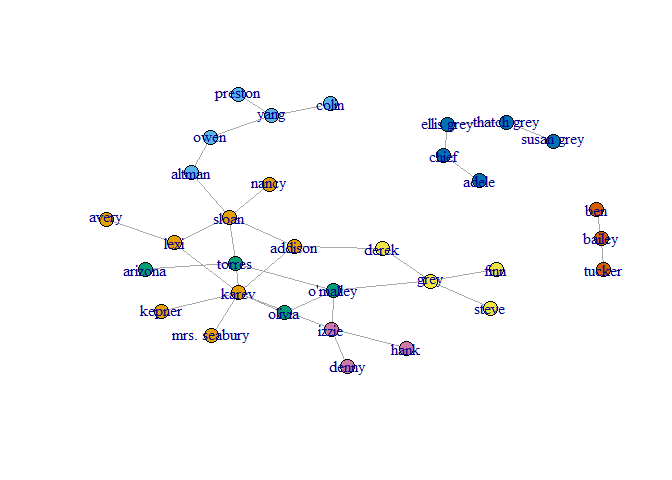
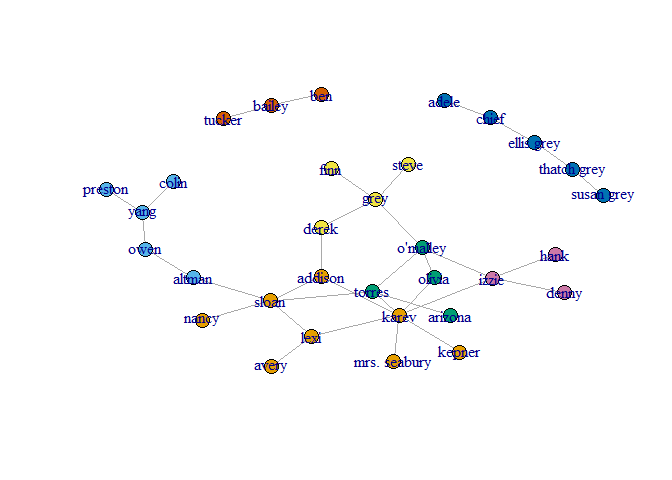
Add files via upload

diff --git a/README.md b/README.md
@@ -386,7 +386,26 @@ bet[which.max(bet)]
 ```
 
     ##   Prince 
-    ## 14441.43
+    ## 13043.37
+
+The most common words in this tweets will be
+
+``` r
+head(sort(bet,decreasing = TRUE),30)
+```
+
+    ##         Prince          Harry          Obama         invite      President 
+    ##    13043.36532     4031.18468     2268.83694      726.27870      689.91013 
+    ##              <U+0085>         Meghan          Royal         Barack            can 
+    ##      671.86950      509.52196      509.43845      413.95413      370.04385 
+    ##           will             If        wedding         really           next 
+    ##      256.51752      250.94362      114.00593       79.33376       73.68265 
+    ##   @BarackObama           like          Trump           just           It<U+0092>s 
+    ##       72.13317       67.50000       61.03340       47.52100       36.74710 
+    ##         Obamas         Harry: @RaheemKassam:           amid          great 
+    ##       36.14353       31.20894       31.02017       30.67619       30.64324 
+    ##        Trump<U+0092>s     government         Obama:        whether        Obama<U+0092>s 
+    ##       28.90162       18.71905       17.50363       13.17756       12.68182
 
 #### ii. By Closeness
 
@@ -398,7 +417,7 @@ clo[which.max(clo)]
 ```
 
     ##      Prince 
-    ## 0.003546099
+    ## 0.004081633
 
 #### iii. By Eigenvector
 
@@ -428,7 +447,7 @@ plot(g, vertex.size=6, vertex.label=NA,
      vertex.color=memb, asp=FALSE)
 ```
 
-![](Report_files/figure-markdown_github/unnamed-chunk-34-1.png)
+![](Report_files/figure-markdown_github/unnamed-chunk-35-1.png)
 
 The number of communities
 
@@ -436,7 +455,7 @@ The number of communities
 length(unique(memb))
 ```
 
-    ## [1] 21
+    ## [1] 20
 
 And the size of each community:
 
@@ -447,27 +466,26 @@ a
 ```
 
     ##    comm ID Size
-    ## 1        1   12
-    ## 2        2   28
-    ## 3        3    8
-    ## 4        4   21
-    ## 5        5   21
-    ## 6        6   15
-    ## 7        7   13
-    ## 8        8    4
-    ## 9        9    8
-    ## 10      10    9
-    ## 11      11    3
-    ## 12      12   11
-    ## 13      13    9
-    ## 14      14   13
-    ## 15      15   11
-    ## 16      16    9
-    ## 17      17    7
-    ## 18      18   14
-    ## 19      19    5
-    ## 20      20   12
-    ## 21      21    3
+    ## 1        1   31
+    ## 2        2    4
+    ## 3        3    7
+    ## 4        4   11
+    ## 5        5    4
+    ## 6        6   12
+    ## 7        7   14
+    ## 8        8   11
+    ## 9        9   12
+    ## 10      10    7
+    ## 11      11   21
+    ## 12      12   13
+    ## 13      13   12
+    ## 14      14   11
+    ## 15      15    9
+    ## 16      16    8
+    ## 17      17    8
+    ## 18      18    6
+    ## 19      19   11
+    ## 20      20    9
 
 The modularity for each phase of this algorithm.
 
@@ -475,54 +493,51 @@ The modularity for each phase of this algorithm.
 gc$modularity
 ```
 
-    ##   [1] -0.0104827878 -0.0079375787 -0.0064584158 -0.0051023898 -0.0034712061
-    ##   [6] -0.0020684337  0.0003821424  0.0024119058  0.0031913927  0.0047734547
-    ##  [11]  0.0073030817  0.0106300580  0.0147543837  0.0196760588  0.0253950832
-    ##  [16]  0.0319114570  0.0392251801  0.0399537401  0.0407545099  0.0423811330
-    ##  [21]  0.0448336094  0.0481119390  0.0522161220  0.0571461582  0.0629020476
-    ##  [26]  0.0643698090  0.0666546824  0.0697566678  0.0736757654  0.0784119750
-    ##  [31]  0.0839652967  0.0903357304  0.0975232763  0.1055279342  0.1143497042
-    ##  [36]  0.1163738618  0.1191953688  0.1228142252  0.1272304309  0.1324439860
-    ##  [41]  0.1384548905  0.1452631443  0.1528687475  0.1588967543  0.1680554405
-    ##  [46]  0.1763688908  0.1767807723  0.1776170770  0.1788778049  0.1805629560
-    ##  [51]  0.1826725304  0.1852065279  0.1881649487  0.1885962129  0.1894587412
-    ##  [56]  0.1898786037  0.1907183289  0.1919779167  0.1936573670  0.1957566800
-    ##  [61]  0.1982758555  0.2012148936  0.2045737943  0.2083525576  0.2125511835
-    ##  [66]  0.2171696720  0.2175919099  0.2184363857  0.2197030995  0.2213464449
-    ##  [71]  0.2234462329  0.2259682588  0.2289125226  0.2293407464  0.2301971938
-    ##  [76]  0.2314639076  0.2331708167  0.2335972352  0.2344500722  0.2357293276
-    ##  [81]  0.2361537508  0.2370025973  0.2382758669  0.2399735598  0.2420956758
-    ##  [86]  0.2446422151  0.2476131776  0.2487755671  0.2503464175  0.2523257290
-    ##  [91]  0.2547135015  0.2575097350  0.2607144296  0.2641998877  0.2682554239
-    ##  [96]  0.2731153405  0.2735417590  0.2743945960  0.2756738514  0.2773795254
-    ## [101]  0.2795116178  0.2820701287  0.2824983525  0.2833547999  0.2846394711
-    ## [106]  0.2863523661  0.2884934848  0.2910217815  0.2940125068  0.2944389252
-    ## [111]  0.2952917622  0.2965710177  0.2982766916  0.3004087841  0.3029672950
-    ## [116]  0.3059522244  0.3093635723  0.3097879955  0.3106368419  0.3119101116
-    ## [121]  0.3136078044  0.3157299205  0.3182764598  0.3212474223  0.3246428080
-    ## [126]  0.3284626169  0.3327068491  0.3334669533  0.3346443548  0.3362390535
-    ## [131]  0.3382510495  0.3406803427  0.3435269332  0.3467908208  0.3504720057
-    ## [136]  0.3545704879  0.3590862673  0.3640193439  0.3644366411  0.3652712356
-    ## [141]  0.3665231273  0.3681763541  0.3702588497  0.3727586426  0.3756757327
-    ## [146]  0.3790101200  0.3826147244  0.3867677441  0.3871850413  0.3880196358
-    ## [151]  0.3892715275  0.3909407164  0.3930272026  0.3955309860  0.3984520667
-    ## [156]  0.4017904446  0.4055461197  0.4097190921  0.4143093617  0.4193169285
-    ## [161]  0.4197519932  0.4206221225  0.4210519615  0.4219116394  0.4232011563
-    ## [166]  0.4236255795  0.4244744259  0.4257476956  0.4274453884  0.4295675045
-    ## [171]  0.4321140438  0.4325256402  0.4333488331  0.4345836225  0.4362300083
-    ## [176]  0.4382879906  0.4407575693  0.4436387445  0.4469315161  0.4506358842
-    ## [181]  0.4547518488  0.4592794098  0.4642185672  0.4692926432  0.4750337106
-    ## [186]  0.4754601291  0.4763129661  0.4775922215  0.4792978955  0.4814299879
-    ## [191]  0.4839884989  0.4869734283  0.4873932909  0.4882330160  0.4894926038
-    ## [196]  0.4911720542  0.4932713671  0.4957905426  0.4987295807  0.5020884815
-    ## [201]  0.5058672448  0.5100658706  0.5141001240  0.5174069575  0.5214026356
-    ## [206]  0.5258156109  0.5274081243  0.5318182492  0.5380175645  0.5394355390
-    ## [211]  0.5412757514  0.5435382017  0.5462228899  0.5493298161  0.5522835812
-    ## [216]  0.5568613091  0.5541101117  0.5483937477  0.5378447358  0.5323256188
-    ## [221]  0.5331659140  0.5373806921  0.5275810480  0.5275339216  0.5223570415
-    ## [226]  0.5217983649  0.5169891852  0.5169146950  0.5172923718  0.5078611882
-    ## [231]  0.5012142665  0.2813658921  0.2477948425  0.1700844438  0.0026078227
-    ## [236]  0.0000000000
+    ##   [1] -0.012513227 -0.010835554 -0.008400008 -0.006820939 -0.006541180
+    ##   [6] -0.005426729 -0.001604999  0.001236779  0.003004942  0.007191099
+    ##  [11]  0.012148094  0.017875926  0.023885104  0.031142262  0.039170258
+    ##  [16]  0.047969091  0.048693360  0.050167300  0.052390909  0.055364189
+    ##  [21]  0.059087138  0.063559758  0.064371165  0.065182573  0.066805388
+    ##  [26]  0.067466509  0.068907992  0.071129837  0.074132045  0.077914616
+    ##  [31]  0.082477548  0.087511274  0.093600535  0.100470158  0.101250520
+    ##  [36]  0.102811245  0.105056022  0.108145368  0.112015076  0.116665147
+    ##  [41]  0.122095580  0.128306375  0.129841876  0.132188784  0.135347100
+    ##  [46]  0.139316823  0.146045508  0.153349411  0.158001157  0.160340834
+    ##  [51]  0.160743539  0.161548949  0.162757064  0.164367884  0.166294977
+    ##  [56]  0.168693921  0.171495571  0.174699925  0.178306984  0.182316748
+    ##  [61]  0.186729218  0.191544393  0.191949479  0.192759652  0.193902678
+    ##  [66]  0.195498946  0.197500300  0.199906741  0.202718268  0.205934882
+    ##  [71]  0.209556582  0.213583368  0.218015241  0.218417946  0.219223356
+    ##  [76]  0.220431471  0.222042292  0.224055817  0.226472048  0.229290983
+    ##  [81]  0.232394088  0.236003617  0.236403764  0.237204059  0.238404501
+    ##  [86]  0.240005091  0.242005828  0.244406712  0.247207744  0.250408923
+    ##  [91]  0.250816214  0.251630797  0.252852671  0.254481836  0.256518293
+    ##  [96]  0.258962040  0.261731586  0.264342731  0.267351289  0.270757260
+    ## [101]  0.274560645  0.278761443  0.283359654  0.288355279  0.288768126
+    ## [106]  0.289593822  0.290832365  0.292483756  0.294547994  0.295765105
+    ## [111]  0.297395064  0.299437871  0.301893525  0.302296230  0.303101641
+    ## [116]  0.304309756  0.305920576  0.307934102  0.310142894  0.312927257
+    ## [121]  0.316114325  0.319704097  0.323696575  0.328091758  0.328896816
+    ## [126]  0.330111193  0.331734890  0.333767907  0.336210243  0.336617535
+    ## [131]  0.337432117  0.338653991  0.340283157  0.342319613  0.344763361
+    ## [136]  0.347614400  0.348011813  0.348806640  0.349998880  0.351588533
+    ## [141]  0.353413318  0.355765342  0.358514778  0.361661629  0.365205892
+    ## [146]  0.369147569  0.369560416  0.370386112  0.371624655  0.373276046
+    ## [151]  0.375340284  0.377817370  0.378220075  0.379025485  0.380233601
+    ## [156]  0.381844421  0.383857947  0.386274177  0.389093113  0.392314753
+    ## [161]  0.395939099  0.399966150  0.400373442  0.401188024  0.402409898
+    ## [166]  0.404039063  0.406075520  0.408519268  0.411370307  0.414628637
+    ## [171]  0.418208532  0.422271920  0.422689707  0.423525280  0.424778640
+    ## [176]  0.425191488  0.426017183  0.427255726  0.432266168  0.436412196
+    ## [181]  0.440223342  0.444424757  0.448611267  0.451388045  0.454969527
+    ## [186]  0.459355714  0.464546606  0.470542202  0.472995299  0.475845809
+    ## [191]  0.479093732  0.482739068  0.486529312  0.490616689  0.495431687
+    ## [196]  0.496620223  0.498221606  0.500235837  0.502662916  0.503897138
+    ## [201]  0.504680940  0.505880412  0.500171983  0.496937378  0.498796559
+    ## [206]  0.460273222  0.443619700  0.411372776  0.333118340  0.299777427
+    ## [211]  0.285595523  0.278682331  0.266559902  0.251803574  0.248065102
+    ## [216]  0.214130803  0.187174963  0.139781618  0.124620116  0.120255802
+    ## [221]  0.000000000
 
 The best modularity score
 
@@ -530,7 +545,7 @@ The best modularity score
 max(gc$modularity)
 ```
 
-    ## [1] 0.5568613
+    ## [1] 0.5058804
 
 The phash (partition) with the best score
 
@@ -538,7 +553,7 @@ The phash (partition) with the best score
 which.max(gc$modularity)
 ```
 
-    ## [1] 216
+    ## [1] 202
 
 #### Fastgreedy algorithm community detection
 
@@ -561,7 +576,7 @@ plot(g,  vertex.size=6, vertex.label=NA,
      vertex.color=membership(gc2), asp=FALSE)
 ```
 
-![](Report_files/figure-markdown_github/unnamed-chunk-42-1.png)
+![](Report_files/figure-markdown_github/unnamed-chunk-43-1.png)
 
 The number of Communities
 
@@ -570,7 +585,7 @@ memb <- membership(gc2)
 length(unique(memb))
 ```
 
-    ## [1] 9
+    ## [1] 10
 
 And the size of each community:
 
@@ -580,16 +595,17 @@ colnames(a) <- c("comm ID","Size")
 a
 ```
 
-    ##   comm ID Size
-    ## 1       1   26
-    ## 2       2   38
-    ## 3       3   24
-    ## 4       4   13
-    ## 5       5   12
-    ## 6       6   11
-    ## 7       7   28
-    ## 8       8   31
-    ## 9       9   53
+    ##    comm ID Size
+    ## 1        1   31
+    ## 2        2   26
+    ## 3        3    9
+    ## 4        4   23
+    ## 5        5   11
+    ## 6        6   21
+    ## 7        7   25
+    ## 8        8   28
+    ## 9        9   11
+    ## 10      10   36
 
 The modularity for each phase of this algorithm.
 
@@ -597,54 +613,51 @@ The modularity for each phase of this algorithm.
 gc2$modularity
 ```
 
-    ##   [1] -8.685779e-03 -8.151166e-03 -7.081939e-03 -5.496192e-03 -4.967323e-03
-    ##   [6] -3.909584e-03 -2.344085e-03 -3.110321e-04  1.934688e-03  3.068534e-03
-    ##  [11]  4.334489e-03  6.094850e-03  8.349617e-03  1.109879e-02  1.434237e-02
-    ##  [16]  1.808035e-02  2.210424e-02  2.658807e-02  3.136642e-02  3.639506e-02
-    ##  [21]  4.142413e-02  4.671541e-02  5.211640e-02  5.486873e-02  5.694802e-02
-    ##  [26]  5.896528e-02  6.131511e-02  6.416408e-02  6.751220e-02  7.135946e-02
-    ##  [31]  7.570587e-02  8.055142e-02  8.589612e-02  9.087550e-02  9.636265e-02
-    ##  [36]  1.020293e-01  1.035931e-01  1.056784e-01  1.082853e-01  1.114137e-01
-    ##  [41]  1.126854e-01  1.144723e-01  1.167745e-01  1.195918e-01  1.229244e-01
-    ##  [46]  1.260488e-01  1.291233e-01  1.326319e-01  1.334873e-01  1.340703e-01
-    ##  [51]  1.351719e-01  1.367919e-01  1.389305e-01  1.415877e-01  1.447633e-01
-    ##  [56]  1.484575e-01  1.489842e-01  1.500377e-01  1.516178e-01  1.536925e-01
-    ##  [61]  1.562640e-01  1.582310e-01  1.590431e-01  1.603794e-01  1.622400e-01
-    ##  [66]  1.646249e-01  1.675340e-01  1.709674e-01  1.749251e-01  1.755799e-01
-    ##  [71]  1.767532e-01  1.784451e-01  1.806555e-01  1.833844e-01  1.866319e-01
-    ##  [76]  1.903979e-01  1.924461e-01  1.929704e-01  1.940190e-01  1.955918e-01
-    ##  [81]  1.975855e-01  1.981070e-01  1.991501e-01  2.007148e-01  2.028010e-01
-    ##  [86]  2.054087e-01  2.085380e-01  2.121888e-01  2.158901e-01  2.164117e-01
-    ##  [91]  2.174548e-01  2.190194e-01  2.211056e-01  2.237133e-01  2.268426e-01
-    ##  [96]  2.304934e-01  2.346658e-01  2.374754e-01  2.379970e-01  2.390401e-01
-    ## [101]  2.406047e-01  2.426909e-01  2.452986e-01  2.484279e-01  2.519681e-01
-    ## [106]  2.556412e-01  2.591763e-01  2.598983e-01  2.611356e-01  2.628880e-01
-    ## [111]  2.651557e-01  2.679386e-01  2.712368e-01  2.750501e-01  2.788842e-01
-    ## [116]  2.794027e-01  2.804398e-01  2.819954e-01  2.840695e-01  2.866622e-01
-    ## [121]  2.897733e-01  2.934030e-01  2.975513e-01  3.022181e-01  3.074034e-01
-    ## [126]  3.110222e-01  3.115407e-01  3.125778e-01  3.141333e-01  3.162075e-01
-    ## [131]  3.188001e-01  3.219113e-01  3.255410e-01  3.266438e-01  3.271624e-01
-    ## [136]  3.281994e-01  3.297550e-01  3.318292e-01  3.344218e-01  3.375330e-01
-    ## [141]  3.410411e-01  3.415563e-01  3.425868e-01  3.441324e-01  3.461933e-01
-    ## [146]  3.487695e-01  3.518609e-01  3.554674e-01  3.595893e-01  3.642263e-01
-    ## [151]  3.691373e-01  3.696490e-01  3.706723e-01  3.722072e-01  3.742537e-01
-    ## [156]  3.768119e-01  3.798817e-01  3.834632e-01  3.875563e-01  3.921610e-01
-    ## [161]  3.972774e-01  3.977891e-01  3.988123e-01  4.003472e-01  4.023938e-01
-    ## [166]  4.049520e-01  4.080218e-01  4.116033e-01  4.156964e-01  4.203011e-01
-    ## [171]  4.254175e-01  4.310455e-01  4.315533e-01  4.325688e-01  4.340921e-01
-    ## [176]  4.361231e-01  4.386619e-01  4.417085e-01  4.452628e-01  4.493249e-01
-    ## [181]  4.538947e-01  4.589723e-01  4.642260e-01  4.647338e-01  4.657493e-01
-    ## [186]  4.672726e-01  4.693036e-01  4.718424e-01  4.748890e-01  4.784433e-01
-    ## [191]  4.825054e-01  4.870752e-01  4.921528e-01  4.977382e-01  5.038313e-01
-    ## [196]  5.043391e-01  5.053546e-01  5.068779e-01  5.089089e-01  5.114477e-01
-    ## [201]  5.144943e-01  5.180486e-01  5.221107e-01  5.264634e-01  5.286358e-01
-    ## [206]  5.291435e-01  5.301591e-01  5.316823e-01  5.337134e-01  5.362522e-01
-    ## [211]  5.392987e-01  5.428531e-01  5.464258e-01  5.495227e-01  5.500219e-01
-    ## [216]  5.510202e-01  5.525176e-01  5.545142e-01  5.570099e-01  5.600048e-01
-    ## [221]  5.634988e-01  5.674919e-01  5.719843e-01  5.769757e-01  5.824663e-01
-    ## [226]  5.884560e-01  5.949449e-01  5.965612e-01  5.956404e-01  5.914324e-01
-    ## [231]  5.813742e-01  5.679341e-01  5.459404e-01  5.060241e-01  3.709569e-01
-    ## [236] -1.110223e-16
+    ##   [1] -9.186806e-03 -8.656466e-03 -7.595787e-03 -6.004768e-03 -3.923316e-03
+    ##   [6] -1.442792e-03 -9.158728e-04  1.239977e-04  1.665845e-03  3.709527e-03
+    ##  [11]  6.197178e-03  8.830491e-03  1.022839e-02  1.214294e-02  1.457415e-02
+    ##  [16]  1.752202e-02  2.098654e-02  2.467768e-02  2.871573e-02  3.259615e-02
+    ##  [21]  3.328811e-02  3.450244e-02  3.623912e-02  3.849816e-02  4.095132e-02
+    ##  [26]  4.232840e-02  4.285076e-02  4.389548e-02  4.546255e-02  4.752633e-02
+    ##  [31]  5.009608e-02  5.317179e-02  5.664230e-02  5.970690e-02  6.160520e-02
+    ##  [36]  6.402587e-02  6.696889e-02  7.043427e-02  7.123284e-02  7.175520e-02
+    ##  [41]  7.279992e-02  7.436699e-02  7.645642e-02  7.906822e-02  8.199456e-02
+    ##  [46]  8.392323e-02  8.453010e-02  8.564295e-02  8.726176e-02  8.938654e-02
+    ##  [51]  9.201728e-02  9.515400e-02  9.879668e-02  1.029453e-01  1.075999e-01
+    ##  [56]  1.127605e-01  1.184271e-01  1.239960e-01  1.245184e-01  1.255631e-01
+    ##  [61]  1.271302e-01  1.291632e-01  1.316651e-01  1.344514e-01  1.351914e-01
+    ##  [66]  1.360668e-01  1.374619e-01  1.393766e-01  1.418109e-01  1.447649e-01
+    ##  [71]  1.454636e-01  1.466682e-01  1.483788e-01  1.505954e-01  1.533179e-01
+    ##  [76]  1.565464e-01  1.592074e-01  1.619312e-01  1.639545e-01  1.644768e-01
+    ##  [81]  1.655216e-01  1.670886e-01  1.691781e-01  1.717899e-01  1.749240e-01
+    ##  [86]  1.783740e-01  1.788874e-01  1.799141e-01  1.814543e-01  1.835078e-01
+    ##  [91]  1.860747e-01  1.891550e-01  1.927486e-01  1.968556e-01  2.014761e-01
+    ##  [96]  2.063875e-01  2.069009e-01  2.079276e-01  2.094678e-01  2.115213e-01
+    ## [101]  2.140882e-01  2.171685e-01  2.206185e-01  2.245049e-01  2.285328e-01
+    ## [106]  2.290462e-01  2.300729e-01  2.316131e-01  2.336666e-01  2.362335e-01
+    ## [111]  2.393137e-01  2.429074e-01  2.468776e-01  2.490374e-01  2.495473e-01
+    ## [116]  2.505669e-01  2.520963e-01  2.541356e-01  2.566847e-01  2.597436e-01
+    ## [121]  2.633123e-01  2.673908e-01  2.719792e-01  2.770773e-01  2.775871e-01
+    ## [126]  2.786068e-01  2.801362e-01  2.821755e-01  2.847246e-01  2.877835e-01
+    ## [131]  2.913522e-01  2.938173e-01  2.943253e-01  2.953392e-01  2.968591e-01
+    ## [136]  2.988850e-01  3.014168e-01  3.044546e-01  3.079984e-01  3.120481e-01
+    ## [141]  3.163544e-01  3.208760e-01  3.227796e-01  3.232856e-01  3.242975e-01
+    ## [146]  3.258154e-01  3.278393e-01  3.303691e-01  3.334049e-01  3.369467e-01
+    ## [151]  3.409944e-01  3.453147e-01  3.500649e-01  3.514740e-01  3.519799e-01
+    ## [156]  3.529919e-01  3.545098e-01  3.565336e-01  3.590635e-01  3.620993e-01
+    ## [161]  3.656411e-01  3.696888e-01  3.742425e-01  3.793022e-01  3.798082e-01
+    ## [166]  3.808201e-01  3.823380e-01  3.843619e-01  3.868917e-01  3.899275e-01
+    ## [171]  3.934693e-01  3.975170e-01  4.020707e-01  4.071304e-01  4.126961e-01
+    ## [176]  4.156310e-01  4.161328e-01  4.171365e-01  4.186420e-01  4.206493e-01
+    ## [181]  4.231585e-01  4.261695e-01  4.296823e-01  4.336970e-01  4.341944e-01
+    ## [186]  4.351892e-01  4.366815e-01  4.386712e-01  4.411582e-01  4.441427e-01
+    ## [191]  4.474810e-01  4.512640e-01  4.554919e-01  4.601647e-01  4.652822e-01
+    ## [196]  4.708446e-01  4.742378e-01  4.771610e-01  4.805817e-01  4.844997e-01
+    ## [201]  4.889152e-01  4.938280e-01  4.943255e-01  4.953203e-01  4.968125e-01
+    ## [206]  4.988022e-01  5.012893e-01  5.042738e-01  5.077557e-01  5.117350e-01
+    ## [211]  5.162118e-01  5.179278e-01  5.167438e-01  5.148468e-01  5.102438e-01
+    ## [216]  4.990714e-01  4.849167e-01  4.597406e-01  4.036992e-01  3.155694e-01
+    ## [221] -1.110223e-16
 
 The best modularity score
 
@@ -652,7 +665,7 @@ The best modularity score
 max(gc2$modularity)
 ```
 
-    ## [1] 0.5965612
+    ## [1] 0.5179278
 
 The phash (partition) with the best score
 
@@ -660,4 +673,4 @@ The phash (partition) with the best score
 which.max(gc2$modularity)
 ```
 
-    ## [1] 228
+    ## [1] 212
